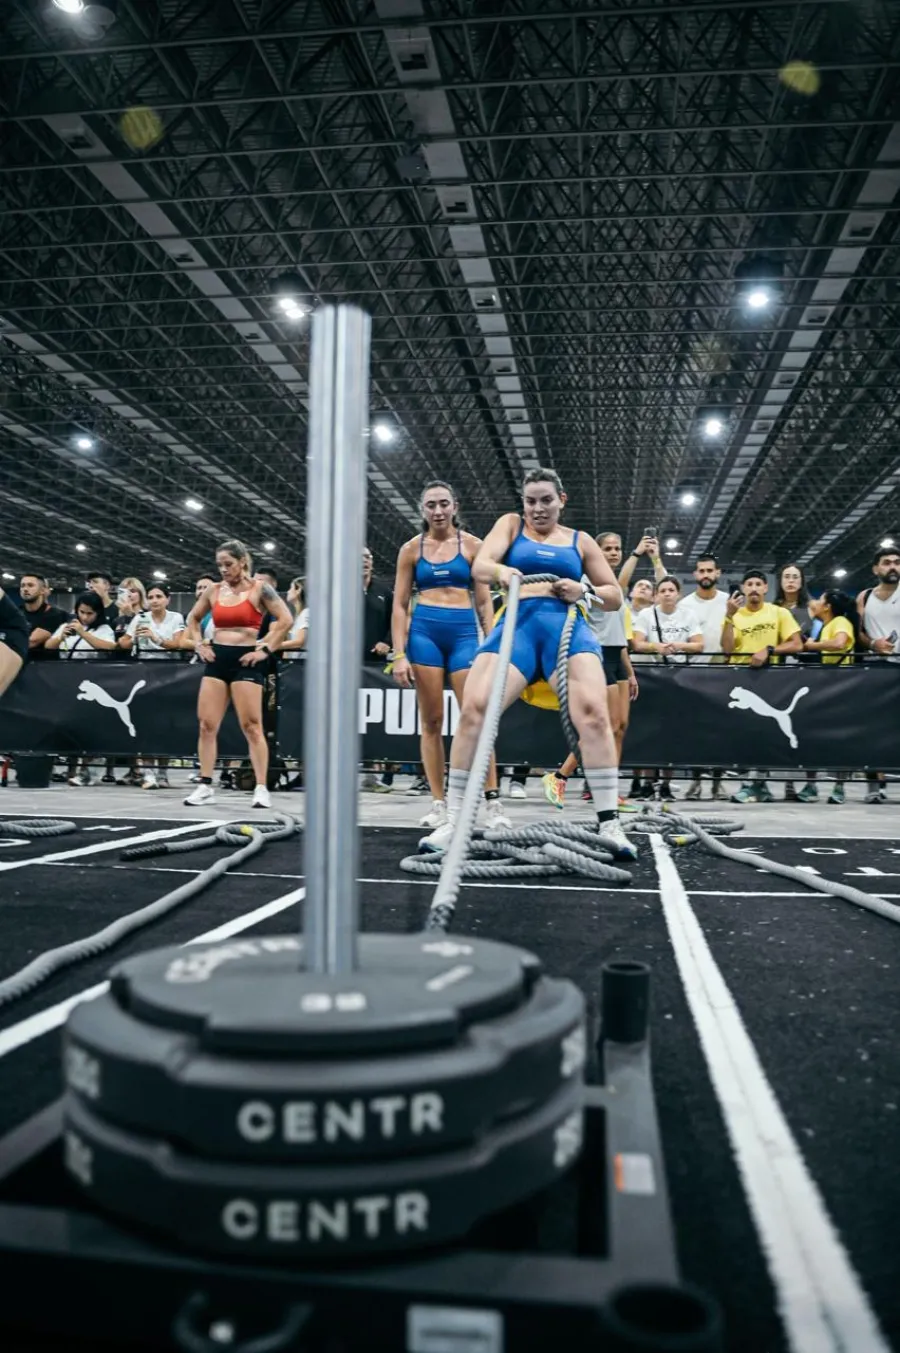
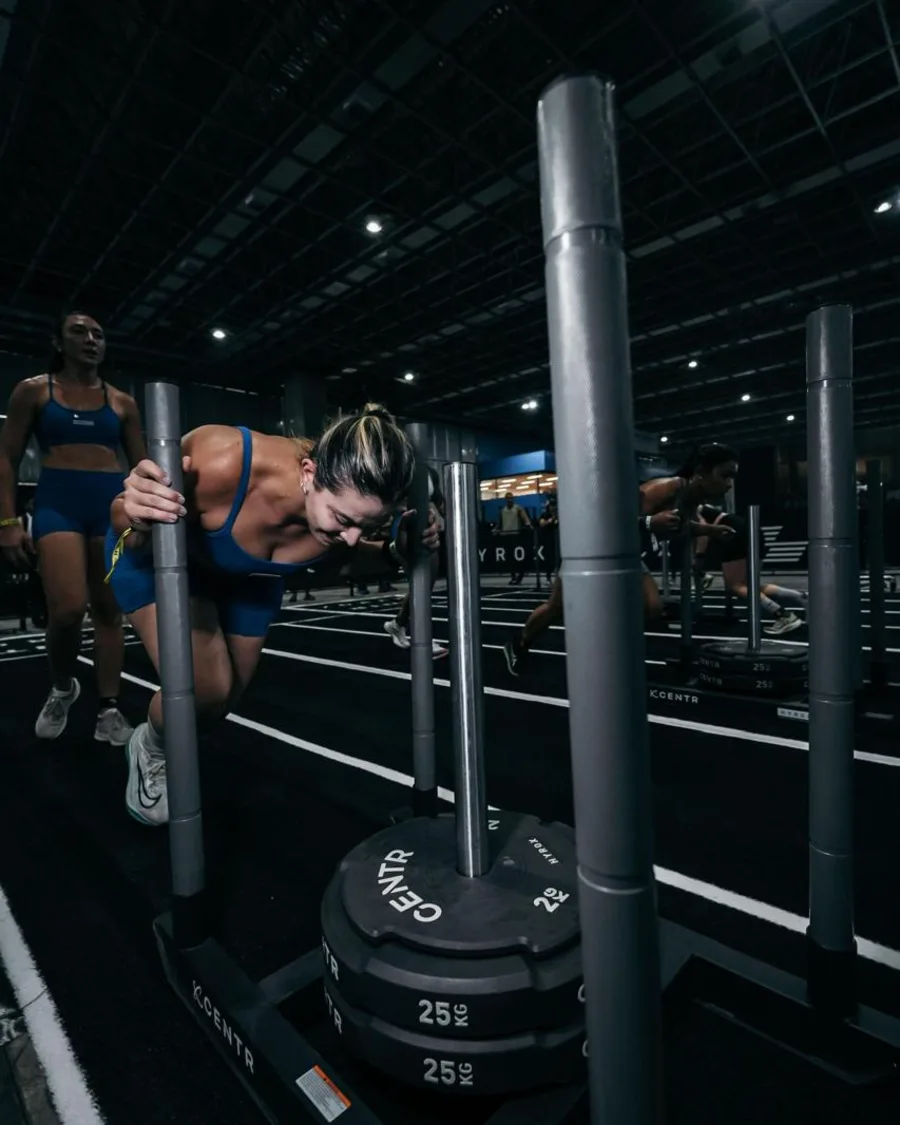
feat: client round — running photo day1, blue sled day2, green day2, fix enroll title
- day1: red pack-running photo (client-picked from insta)
- day2: blue-outfit sled push (client-picked, replaces rear sled view)
- day2 accent blue -> lime green (client: blue reads as another hyrox event)
- enroll title: keep "no" on Race Valley line, no orphan on mobile

diff --git a/assets/css/styles.css b/assets/css/styles.css
@@ -34,7 +34,7 @@
   --ink:#050506;
   --lime:#C6F621;
   --lime-deep:#A9D400;
-  --blue:#3BB6FF;
+  --blue:#C6F621;
   --white:#F3F4EF;
   --muted:#9BA0A8;
   --faint:#6B7079;
@@ -101,7 +101,7 @@ button{font:inherit;color:inherit;background:none;border:none;cursor:pointer}
 .btn--lime{background:var(--lime);color:var(--ink);box-shadow:0 0 0 rgba(198,246,33,0)}
 .btn--lime:hover{transform:translateY(-3px);box-shadow:0 14px 34px -12px rgba(198,246,33,.65)}
 .btn--blue{background:var(--blue);color:var(--ink)}
-.btn--blue:hover{transform:translateY(-3px);box-shadow:0 14px 34px -12px rgba(59,182,255,.6)}
+.btn--blue:hover{transform:translateY(-3px);box-shadow:0 14px 34px -12px rgba(198,246,33,.6)}
 .btn--ghost{background:rgba(255,255,255,.05);color:var(--white);border-color:rgba(255,255,255,.32)}
 .btn--ghost:hover{border-color:var(--white);background:rgba(255,255,255,.12);transform:translateY(-3px)}
 
@@ -289,7 +289,7 @@ button{font:inherit;color:inherit;background:none;border:none;cursor:pointer}
 .circuit__item{display:flex;flex-direction:column;gap:8px}
 .circuit__run{
   align-self:flex-start;font-family:var(--fd);font-weight:700;font-size:.68rem;letter-spacing:.16em;text-transform:uppercase;
-  color:var(--blue);border:1px solid rgba(59,182,255,.35);border-radius:100px;padding:.35em .8em;
+  color:var(--blue);border:1px solid rgba(198,246,33,.35);border-radius:100px;padding:.35em .8em;
   display:inline-flex;align-items:center;gap:.5em;
 }
 .circuit__run::before{content:"";width:6px;height:6px;border-radius:50%;background:var(--blue)}
@@ -299,7 +299,7 @@ button{font:inherit;color:inherit;background:none;border:none;cursor:pointer}
 }
 .station:hover{border-color:var(--line-2);transform:translateY(-4px);background:var(--panel-2)}
 .station__num{position:absolute;top:.5rem;right:.9rem;font-family:var(--fd);font-weight:800;font-size:2.6rem;line-height:1;color:#1b1e25;font-feature-settings:"tnum"}
-.station:hover .station__num{color:rgba(59,182,255,.25)}
+.station:hover .station__num{color:rgba(198,246,33,.25)}
 .station h4{font-family:var(--fd);font-weight:700;text-transform:uppercase;font-size:1.12rem;letter-spacing:.01em;margin-bottom:.4rem;position:relative;z-index:1;max-width:80%}
 .station p{color:var(--muted);font-size:.9rem;margin-bottom:1rem;min-height:2.4em}
 .station__dist{font-family:var(--fd);font-weight:700;font-size:.8rem;letter-spacing:.08em;color:var(--blue);text-transform:uppercase}
@@ -308,9 +308,9 @@ button{font:inherit;color:inherit;background:none;border:none;cursor:pointer}
 
 /* Circuit accordion (Dia 2 — colapsado por padrão) */
 .circuit-acc{margin-top:clamp(2.5rem,5vw,4rem);text-align:center}
-.circuit-acc__btn{list-style:none;cursor:pointer;display:inline-flex;align-items:center;justify-content:center;gap:.7em;font-family:var(--fd);font-weight:700;text-transform:uppercase;letter-spacing:.03em;font-size:clamp(.9rem,1.6vw,1.05rem);color:var(--blue);border:1.5px solid rgba(59,182,255,.5);border-radius:100px;padding:1.05em 1.8em;transition:background .3s var(--ease),border-color .3s var(--ease)}
+.circuit-acc__btn{list-style:none;cursor:pointer;display:inline-flex;align-items:center;justify-content:center;gap:.7em;font-family:var(--fd);font-weight:700;text-transform:uppercase;letter-spacing:.03em;font-size:clamp(.9rem,1.6vw,1.05rem);color:var(--blue);border:1.5px solid rgba(198,246,33,.5);border-radius:100px;padding:1.05em 1.8em;transition:background .3s var(--ease),border-color .3s var(--ease)}
 .circuit-acc__btn::-webkit-details-marker{display:none}
-.circuit-acc__btn:hover{background:rgba(59,182,255,.1);border-color:var(--blue)}
+.circuit-acc__btn:hover{background:rgba(198,246,33,.1);border-color:var(--blue)}
 .circuit-acc__ic{position:relative;width:14px;height:14px;flex:none}
 .circuit-acc__ic::before,.circuit-acc__ic::after{content:"";position:absolute;background:var(--blue);border-radius:2px;transition:transform .3s var(--ease),opacity .3s}
 .circuit-acc__ic::before{top:6px;left:0;width:14px;height:2px}
@@ -332,7 +332,7 @@ button{font:inherit;color:inherit;background:none;border:none;cursor:pointer}
 .combo__days{display:flex;align-items:center;gap:1rem;margin:1.8rem 0;flex-wrap:wrap;justify-content:center}
 .combo__day{font-family:var(--fd);font-weight:700;text-transform:uppercase;font-size:.9rem;letter-spacing:.1em;padding:.7em 1.2em;border-radius:100px;border:1.5px solid}
 .combo__day--gp{color:var(--lime);border-color:rgba(198,246,33,.4)}
-.combo__day--hy{color:var(--blue);border-color:rgba(59,182,255,.4)}
+.combo__day--hy{color:var(--blue);border-color:rgba(198,246,33,.4)}
 .combo__plus{font-family:var(--fd);font-weight:800;font-size:1.6rem;color:var(--white)}
 .combo__desc{max-width:48ch;color:#CDD0CA;font-size:clamp(1rem,1.6vw,1.15rem);margin-bottom:2rem}
 
@@ -363,7 +363,7 @@ button{font:inherit;color:inherit;background:none;border:none;cursor:pointer}
 .plan--feature{background:var(--panel-2);border-color:rgba(198,246,33,.35);box-shadow:0 0 60px -30px rgba(198,246,33,.4)}
 .plan__tag{font-family:var(--fd);font-weight:700;font-size:.72rem;letter-spacing:.14em;text-transform:uppercase;padding:.5em .9em;border-radius:100px}
 .plan__tag--gp{background:rgba(198,246,33,.12);color:var(--lime)}
-.plan__tag--hy{background:rgba(59,182,255,.12);color:var(--blue)}
+.plan__tag--hy{background:rgba(198,246,33,.12);color:var(--blue)}
 .plan__tag--combo{background:var(--lime);color:var(--ink)}
 .plan h3{font-family:var(--fd);font-weight:800;text-transform:uppercase;font-size:1.7rem;letter-spacing:.01em}
 .plan p{color:var(--muted);font-size:.98rem;flex:1}

diff --git a/index.html b/index.html
@@ -159,7 +159,7 @@
 <section class="day day--gp section" id="grandprix">
   <div class="wrap day__grid">
     <div class="day__media reveal-up">
-      <img src="assets/photos/day1.webp" alt="Dupla cruzando a linha de chegada" loading="lazy" decoding="async" width="900" height="909">
+      <img src="assets/photos/day1.webp" alt="Pelotão de atletas na largada da corrida" loading="lazy" decoding="async" width="900" height="1125">
       <span class="day__badge day__badge--gp">Dia 1 · Sáb 12/Set</span>
     </div>
 
@@ -188,7 +188,7 @@
 <section class="day day--hy section" id="hybrid">
   <div class="wrap day__grid day__grid--rev">
     <div class="day__media reveal-up">
-      <img src="assets/photos/day2.webp" alt="Atleta puxando o trenó durante a prova híbrida" loading="lazy" decoding="async" width="900" height="1353">
+      <img src="assets/photos/day2.webp" alt="Atleta empurrando o trenó na prova híbrida" loading="lazy" decoding="async" width="900" height="1125">
       <span class="day__badge day__badge--hy">Dia 2 · Dom 13/Set</span>
     </div>
 
@@ -332,7 +332,7 @@
 <section class="enroll section" id="inscricao">
   <div class="wrap">
     <div class="enroll__head">
-      <h2 class="enroll__title reveal-up">Garanta sua vaga no <br><span class="hl-lime">Race Valley</span></h2>
+      <h2 class="enroll__title reveal-up">Garanta sua vaga<br>no <span class="hl-lime">Race Valley</span></h2>
       <p class="enroll__meta reveal-up">12 e 13 de setembro · Shopping Vale Sul, São José dos Campos</p>
     </div>
 